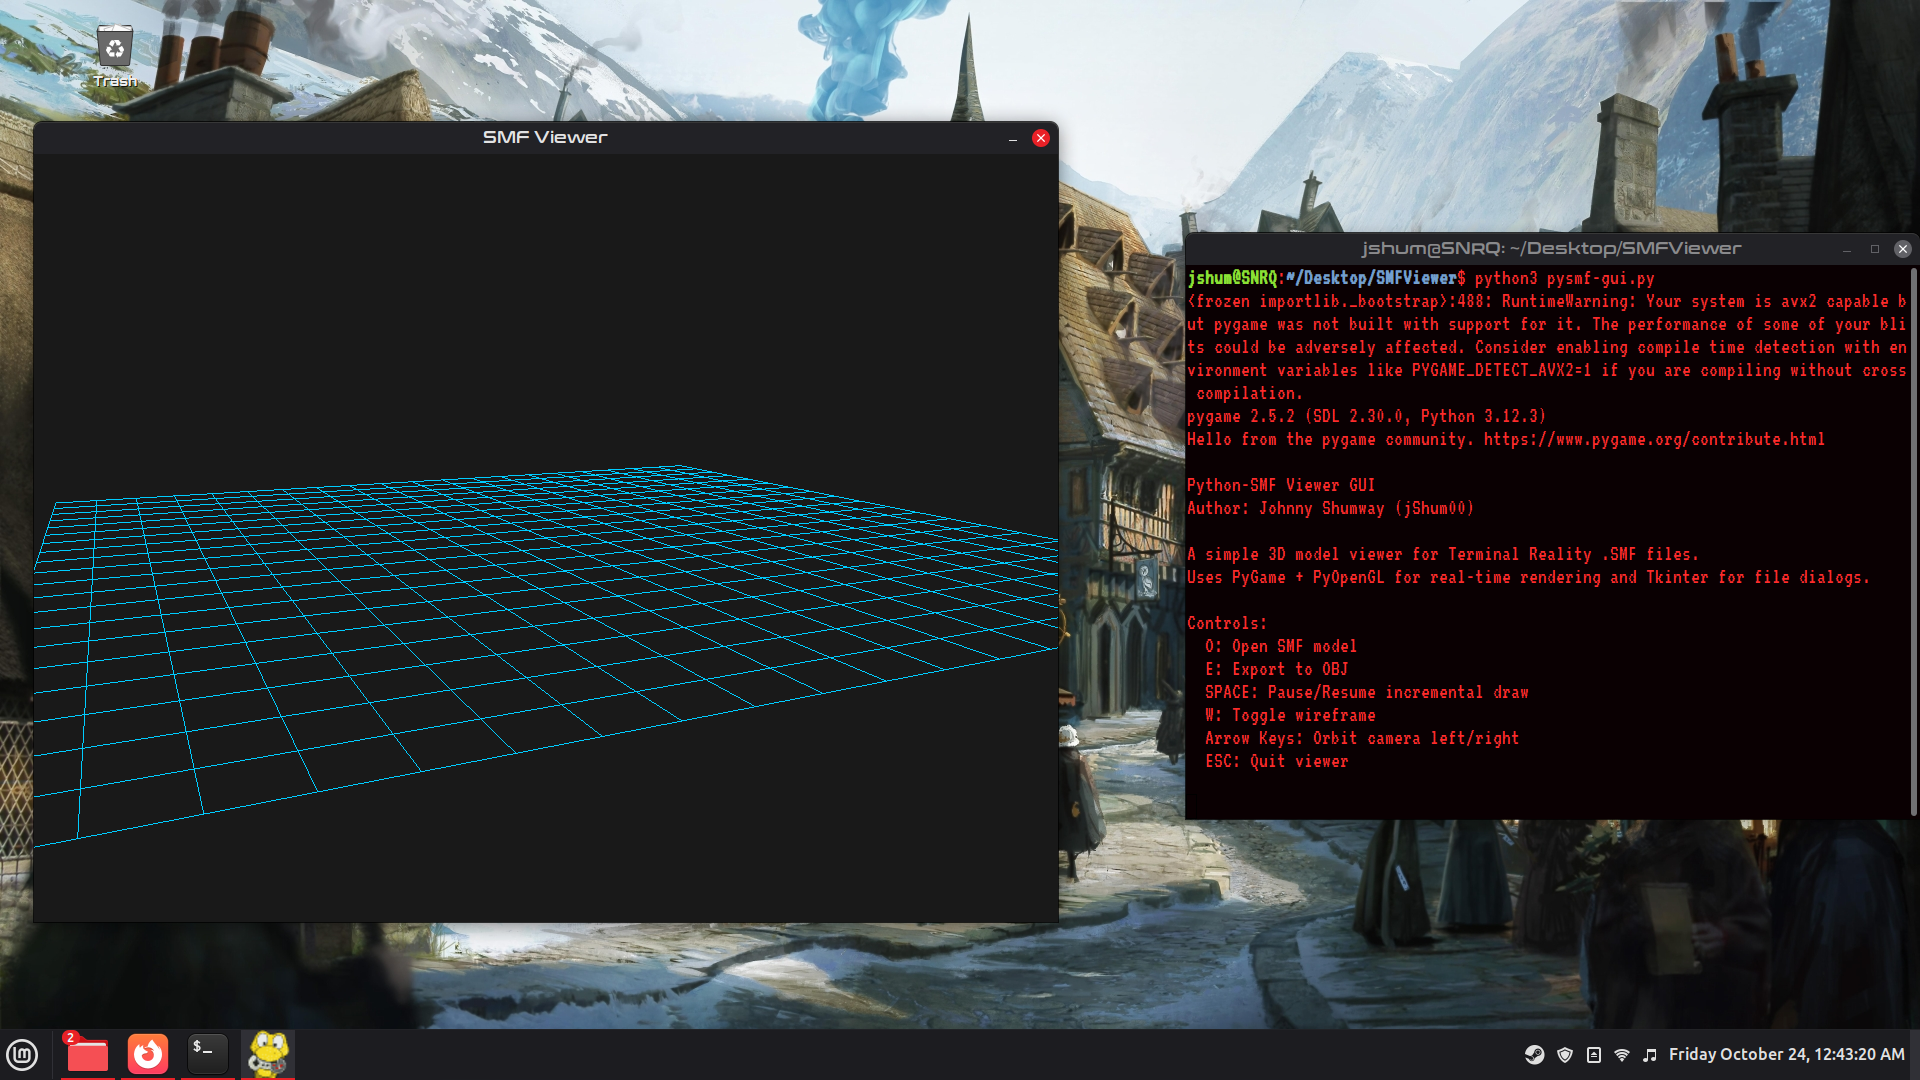
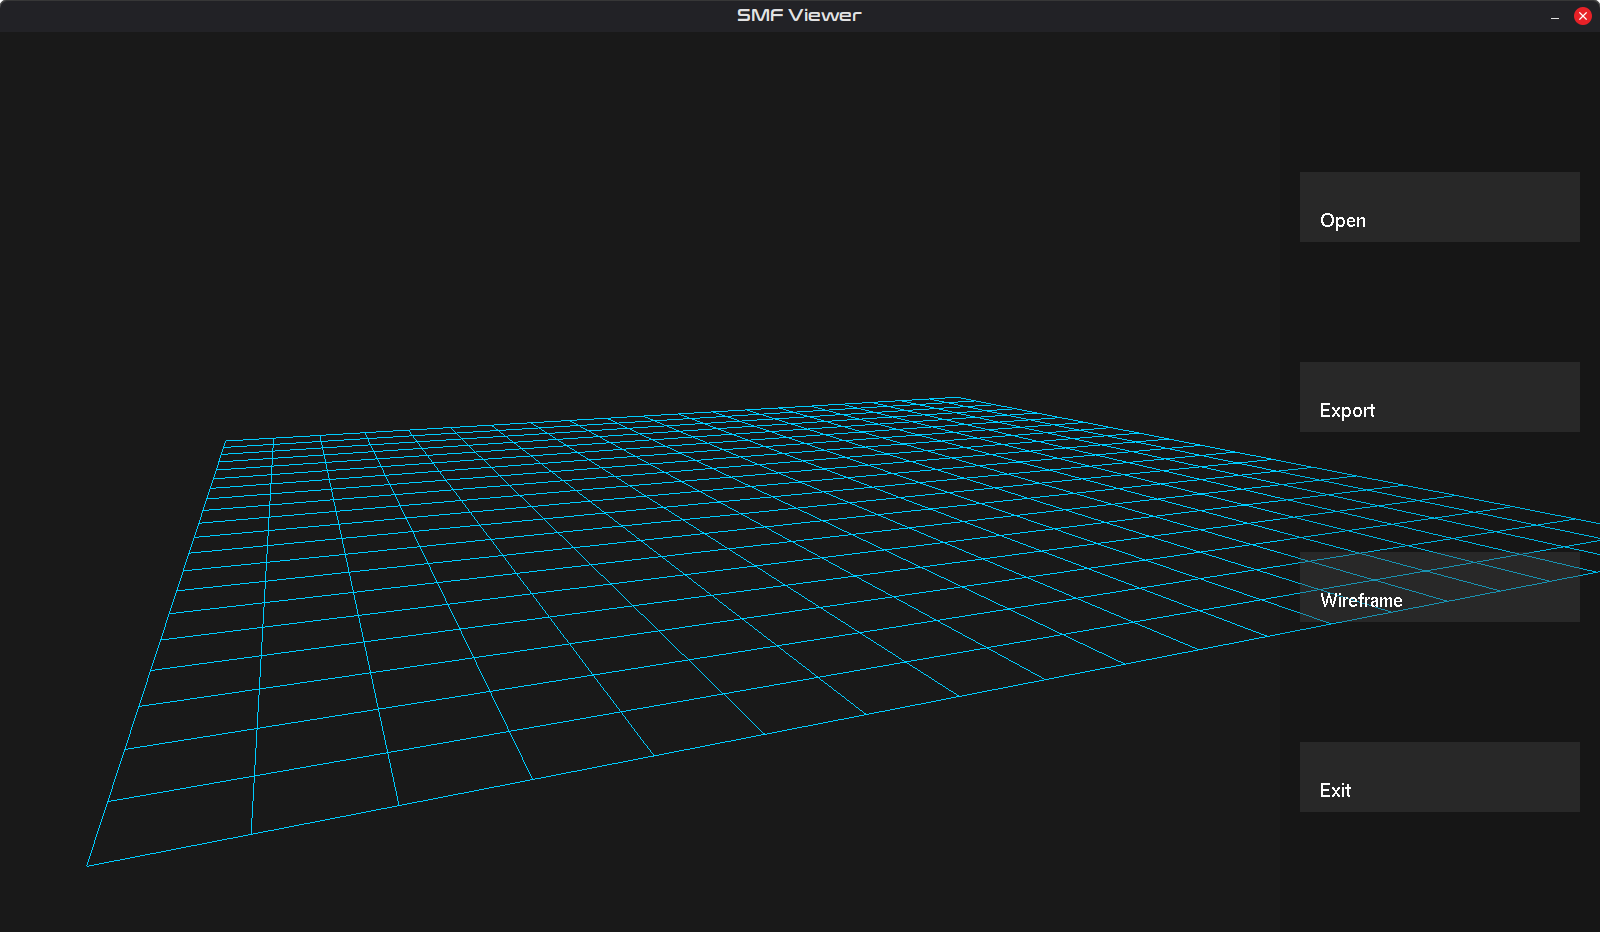
Added button panel, in-viewer. New Screenshots

diff --git a/pysmf-gui.py b/pysmf-gui.py
@@ -28,14 +28,15 @@ from tkinter import filedialog, Tk
 from pysmf import SMFParser
 from pysmf_export import export_to_obj
 from pysmf_print import print_smf_summary
-
+from OpenGL.GLUT import glutInit, glutBitmapCharacter, GLUT_BITMAP_HELVETICA_18
 
 class SMFViewer:
     """A basic OpenGL-based SMF model viewer with orbit camera and OBJ export."""
 
-    def __init__(self, width=1024, height=768):
+    def __init__(self, width=1600, height=900):
         """Initialize window, OpenGL context, and default state."""
         pygame.init()
+        glutInit()
         self.width = width
         self.height = height
         pygame.display.set_mode((width, height), DOUBLEBUF | OPENGL)
@@ -52,6 +53,18 @@ class SMFViewer:
         glClearColor(0.1, 0.1, 0.1, 1.0)
         glEnable(GL_DEPTH_TEST)
         glPolygonMode(GL_FRONT_AND_BACK, GL_LINE)  # start in wireframe mode
+
+        # UI Data
+        self.ui_visible = True
+        self.ui_alpha = 0.35
+        self.last_mouse_move = time.time()
+        self.ui_fade_speed = 0.01
+        self.ui_timeout = 1.0
+
+        # Button Data
+        self.button_labels = ["Open", "Export", "Wireframe", "Exit"]
+        self.buttons = []
+        self.hover_index = None
 
         # Model state
         self.model_data = None
@@ -72,6 +85,7 @@ class SMFViewer:
 
         # Start background thread to handle incremental drawing
         threading.Thread(target=self.draw_model_incremental, daemon=True).start()
+
 
     # -------------------------------------------------------------------------
 
@@ -120,6 +134,37 @@ class SMFViewer:
 
     # -------------------------------------------------------------------------
 
+    def toggle_wireframe(self):
+        self.wireframe = not self.wireframe
+        glPolygonMode(GL_FRONT_AND_BACK, GL_LINE if self.wireframe else GL_FILL)
+        print("Wireframe mode:", self.wireframe)
+
+    # -------------------------------------------------------------------------
+
+    def export_obj(self):
+        if not self.model_data:
+            print("No model loaded to export.")
+            return
+
+        root = Tk()
+        root.withdraw()
+        obj_path = filedialog.asksaveasfilename(
+            title="Export SMF as OBJ",
+            defaultextension=".obj",
+            filetypes=[("Wavefront OBJ", "*.obj")]
+        )
+        root.destroy()
+
+        if obj_path:
+            try:
+                export_to_obj(self.last_loaded_path, obj_path)
+            except AttributeError:
+                print("No SMF path cached. Reopen model before exporting.")
+        else:
+            print("Export cancelled.")
+
+    # -------------------------------------------------------------------------
+    
     def run(self):
         """Main event/render loop."""
         clock = pygame.time.Clock()
@@ -130,41 +175,41 @@ class SMFViewer:
             for event in pygame.event.get():
                 if event.type == QUIT or (event.type == KEYDOWN and event.key == K_ESCAPE):
                     running = False
-
+                elif event.type == MOUSEMOTION:
+                    mx, my = event.pos
+                    self.last_mouse_move = time.time() # reset timer
+                    self.hover_index = None
+                    for i, (left, top, right, bottom) in enumerate(self.buttons):
+                        if left <= mx <= right and top <= my <= bottom:
+                            self.hover_index = i
+                            break
+                elif event.type == MOUSEBUTTONDOWN and event.button == 1:
+                    mx, my = event.pos
+                    for i, (left, top, right, bottom) in enumerate(self.buttons):
+                        if left <= mx <= right and top <= my <= bottom:
+                            label = self.button_labels[i]
+                            print(f"[UI] {label} clicked")
+                            if label == "Exit":
+                                running = False
+                            elif label == "Wireframe":
+                                self.toggle_wireframe()
+                            elif label == "Open":
+                                threading.Thread(target=self.load_smf, daemon=True).start()
+                            elif label == "Export":
+                                threading.Thread(target=self.export_obj, daemon=True).start()
                 elif event.type == KEYDOWN:
                     if event.key == K_SPACE:
                         self.paused = not self.paused
                         print("Paused" if self.paused else "Resumed")
 
                     elif event.key == K_o:
-                        self.load_smf()
+                        threading.Thread(target=self.load_smf, daemon=True).start()
 
                     elif event.key == K_e:
-                        if not self.model_data:
-                            print("No model loaded to export.")
-                            continue
-
-                        root = Tk()
-                        root.withdraw()
-                        obj_path = filedialog.asksaveasfilename(
-                            title="Export SMF as OBJ",
-                            defaultextension=".obj",
-                            filetypes=[("Wavefront OBJ", "*.obj")]
-                        )
-                        root.destroy()
-
-                        if obj_path:
-                            try:
-                                export_to_obj(self.last_loaded_path, obj_path)
-                            except AttributeError:
-                                print("No SMF path cached. Reopen model before exporting.")
-                        else:
-                            print("Export cancelled.")
+                        threading.Thread(target=self.export_obj, daemon=True).start()
 
                     elif event.key == K_w:
-                        self.wireframe = not self.wireframe
-                        glPolygonMode(GL_FRONT_AND_BACK, GL_LINE if self.wireframe else GL_FILL)
-                        print("Wireframe mode:", self.wireframe)
+                        self.toggle_wireframe()
 
             # ---------------- Continuous input ----------------
             keys = pygame.key.get_pressed()
@@ -175,7 +220,7 @@ class SMFViewer:
             if keys[K_KP_PLUS]:
                 self.camera_radius += 1.0
             if keys[K_KP_MINUS]:
-                self.camera_radius -= 1.0
+                self.camera_radius -= 1.0            
 
             # ---------------- Camera setup ----------------
             glClear(GL_COLOR_BUFFER_BIT | GL_DEPTH_BUFFER_BIT)
@@ -219,6 +264,100 @@ class SMFViewer:
                                 continue
                     glEnd()
                 glPopMatrix()
+
+            # --------------- Fade Overlay ---------------
+            idle_time = time.time() - self.last_mouse_move
+            if idle_time > self.ui_timeout:
+                self.ui_visible = False
+            else:
+                self.ui_visible = True
+
+            # Fade toward Target
+            target_alpha = 0.35 if self.ui_visible else 0.0
+            if self.ui_alpha < target_alpha:
+                self.ui_alpha = min(self.ui_alpha + self.ui_fade_speed, target_alpha)
+            elif self.ui_alpha > target_alpha:
+                self.ui_alpha = max(self.ui_alpha - self.ui_fade_speed, target_alpha)
+
+            # skip UI draw entirely if fully hidden
+            if self.ui_alpha <= 0.01:
+                pygame.display.flip()
+                clock.tick(60)
+                continue
+
+            # --------------- Draw overlay ---------------
+            glDisable(GL_DEPTH_TEST)
+            glEnable(GL_BLEND)
+            glBlendFunc(GL_SRC_ALPHA, GL_ONE_MINUS_SRC_ALPHA)
+            glPolygonMode(GL_FRONT_AND_BACK, GL_FILL)
+
+            glMatrixMode(GL_PROJECTION)
+            glPushMatrix()
+            glLoadIdentity()
+            glOrtho(0, self.width, self.height, 0, -1, 1)
+            glMatrixMode(GL_MODELVIEW)
+            glPushMatrix()
+            glLoadIdentity()
+
+            # Draw semi-transparent rectangle
+            panel_width = self.width // 5
+            glColor4f(0.0, 0.0, 0.0, self.ui_alpha * 0.35) # 35% Opacity, Black
+            glBegin(GL_QUADS)
+            glVertex2f(self.width - panel_width, 0)             # bottom-left
+            glVertex2f(self.width, 0)                           # bottom-right
+            glVertex2f(self.width, self.height)                 # top-left
+            glVertex2f(self.width - panel_width, self.height)   # top-right
+            glEnd()
+
+
+            # ------------------ Draw button ------------------------
+            self.buttons = []
+            button_count = 4
+            button_height = 50
+            button_spacing = (self.height - (button_count * button_height)) // (button_count + 1)
+            panel_width = self.width // 5
+
+            for i in range(button_count):
+                    top = button_spacing + i * (button_height + button_spacing)
+                    bottom = top + button_height + 20
+                    left = self.width - panel_width + 20
+                    right = self.width - 20
+                    self.buttons.append((left, top, right, bottom))
+                    
+                    # hover highlight
+                    if i == self.hover_index:
+                        glColor4f(0.6, 0.6, 0.6, self.ui_alpha + 1.0)
+                    else:
+                        glColor4f(0.3, 0.3, 0.3, self.ui_alpha)
+
+                    glBegin(GL_QUADS)
+                    glVertex2f(left, top)
+                    glVertex2f(right, top)
+                    glVertex2f(right, bottom)
+                    glVertex2f(left, bottom)
+                    glEnd()
+
+            # --- Draw Button Labels ---
+            glColor3f(1.0, 1.0, 1.0)    # white text
+            for i, label in enumerate(self.button_labels):
+                top = button_spacing + i * (button_height + button_spacing)
+                left = self.width - panel_width + 40
+                baseline = top + (button_height) + 5
+
+                glRasterPos2f(left, baseline)
+                for ch in label:
+                    glutBitmapCharacter(GLUT_BITMAP_HELVETICA_18, ord(ch))
+
+            # Restore 3D State
+            glDisable(GL_BLEND)
+            glMatrixMode(GL_MODELVIEW)
+            glPopMatrix()
+            glMatrixMode(GL_PROJECTION)
+            glPopMatrix()
+            glMatrixMode(GL_MODELVIEW)
+            glEnable(GL_DEPTH_TEST)
+
+            glPolygonMode(GL_FRONT_AND_BACK, GL_LINE if self.wireframe else GL_FILL)
 
             pygame.display.flip()
             clock.tick(60)
